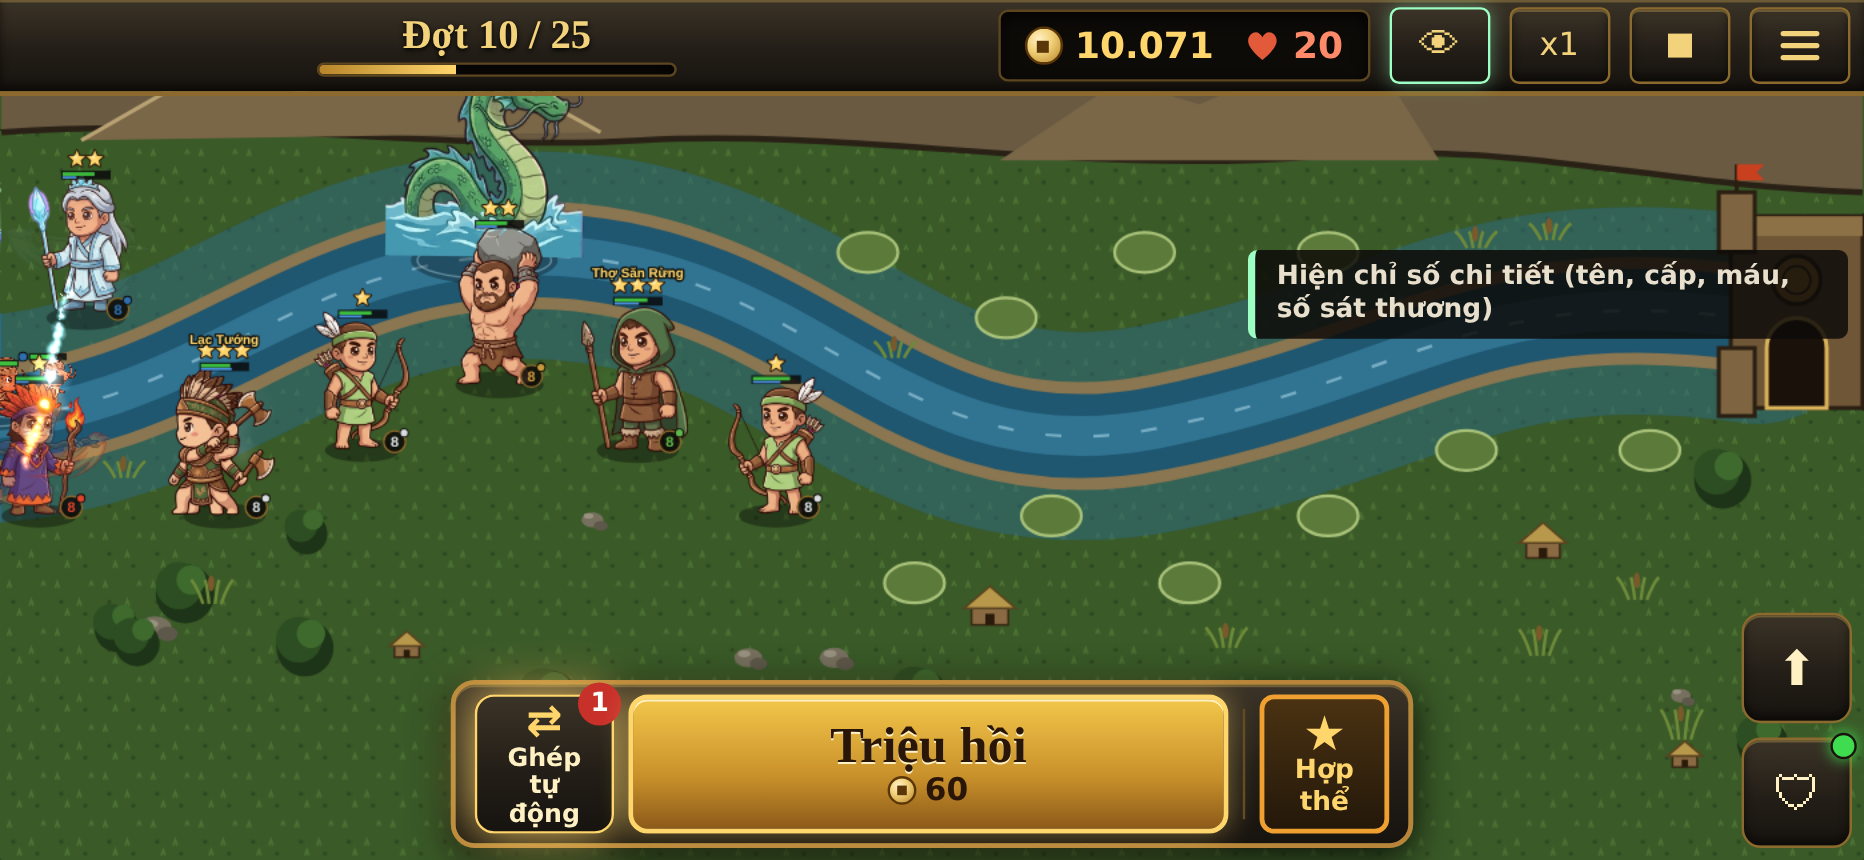
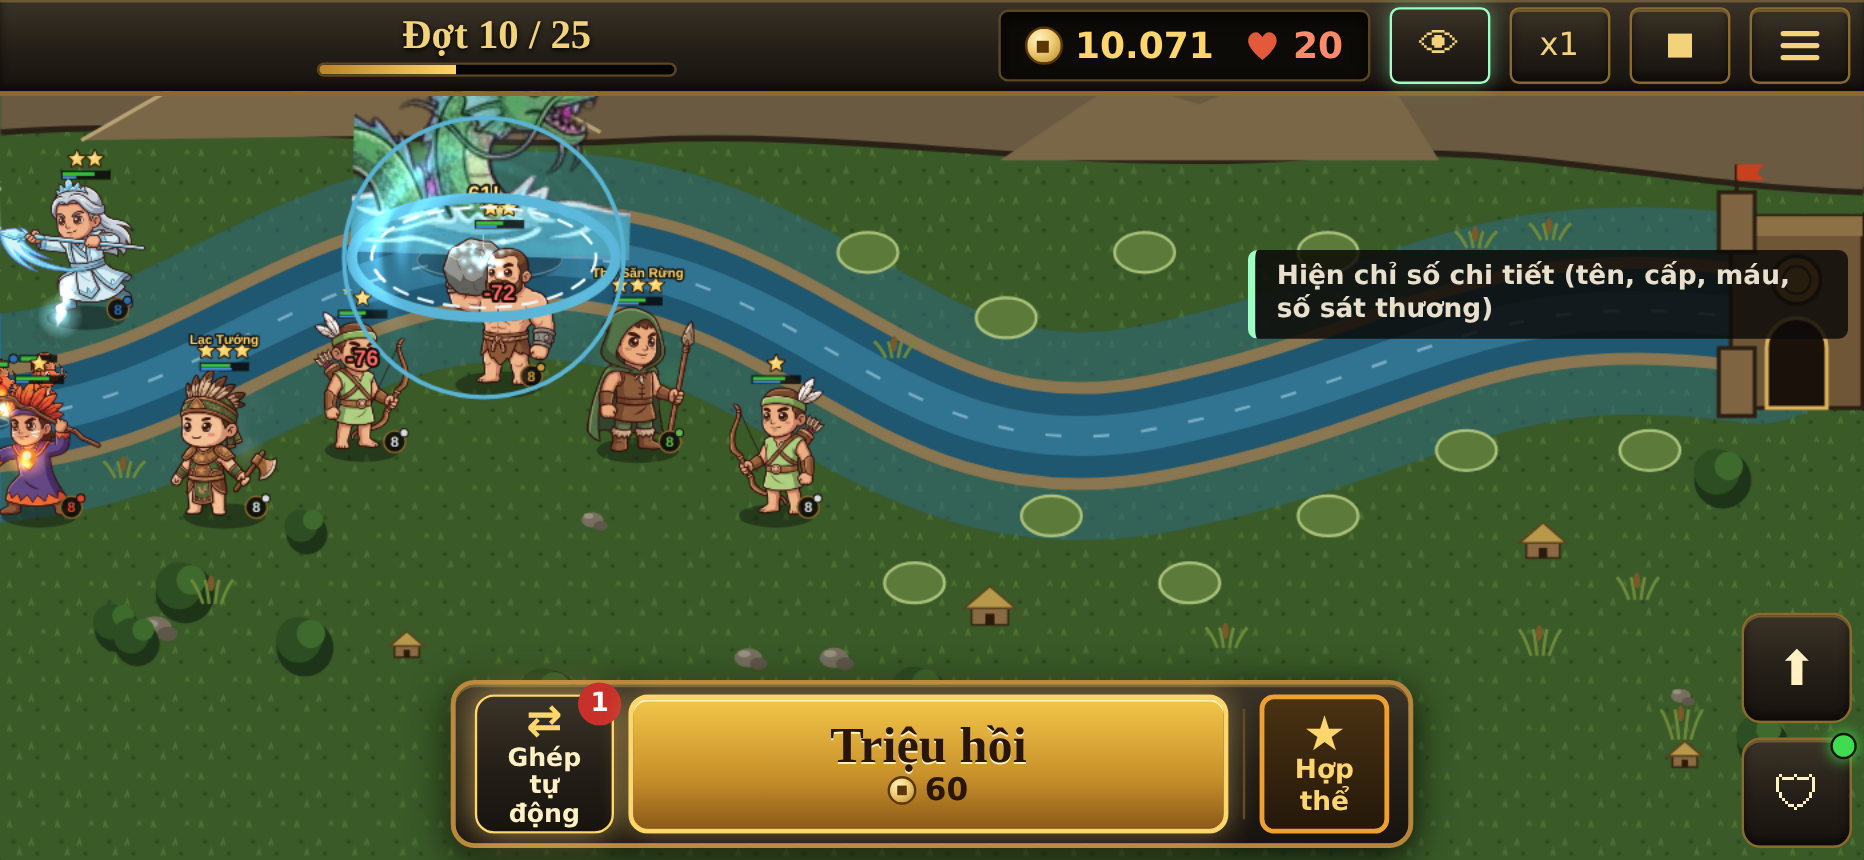
v113: Gemini art for Sọ Dừa (all 60 heroes now drawn)
Claude-Session: https://claude.ai/code/session_017MbeA6iwMaSCfNrZ9EBWDN

diff --git a/index.html b/index.html
@@ -13,7 +13,7 @@
   <title>Núi Cao Nước Dâng</title>
   <link rel="preconnect" href="https://fonts.googleapis.com">
   <link rel="stylesheet" href="https://fonts.googleapis.com/css2?family=Alegreya+SC:wght@700;800&family=Alegreya+Sans:wght@400;500;700;800&display=swap">
-  <link rel="stylesheet" href="css/style.css?v=112">
+  <link rel="stylesheet" href="css/style.css?v=113">
 </head>
 <body>
 <!--BODY-->
@@ -95,7 +95,7 @@
           <button id="btn-settings" class="mc-btn metal"><svg viewBox="0 0 20 20"><circle cx="10" cy="10" r="3" fill="none" stroke="currentColor" stroke-width="1.8"/><path d="M10 2v3M10 15v3M2 10h3M15 10h3M4.3 4.3l2.1 2.1M13.6 13.6l2.1 2.1M4.3 15.7l2.1-2.1M13.6 6.4l2.1-2.1" stroke="currentColor" stroke-width="1.8"/></svg>Cài Đặt</button>
           <div class="mc-subs"><button id="btn-menu-codex" class="mc-sub">📖 Bách khoa</button><button id="btn-ranks" class="mc-sub">🏆 Xếp hạng</button></div>
         </nav>
-        <div class="ver">Phiên bản 112</div>
+        <div class="ver">Phiên bản 113</div>
       </div>
 
       <div id="story" class="overlay" hidden></div>
@@ -131,19 +131,19 @@
       el.textContent = 'Lỗi: ' + (e.message || e.error) + (e.filename ? ' (' + e.filename.split('/').pop() + ':' + e.lineno + ')' : '');
     });
   </script>
-  <script src="js/art.js?v=112"></script>
-  <script src="js/data.js?v=112"></script>
-  <script src="js/enemies2.js?v=112"></script>
-  <script src="js/game.js?v=112"></script>
-  <script src="js/render.js?v=112"></script>
-  <script src="js/costume.js?v=112"></script>
-  <script src="js/maps.js?v=112"></script>
-  <script src="js/chapters.js?v=112"></script>
-  <script src="js/firebase-config.js?v=112"></script>
-  <script src="js/cloud.js?v=112"></script>
-  <script src="js/ui.js?v=112"></script>
-  <script src="js/vfx.js?v=112"></script>
+  <script src="js/art.js?v=113"></script>
+  <script src="js/data.js?v=113"></script>
+  <script src="js/enemies2.js?v=113"></script>
+  <script src="js/game.js?v=113"></script>
+  <script src="js/render.js?v=113"></script>
+  <script src="js/costume.js?v=113"></script>
+  <script src="js/maps.js?v=113"></script>
+  <script src="js/chapters.js?v=113"></script>
+  <script src="js/firebase-config.js?v=113"></script>
+  <script src="js/cloud.js?v=113"></script>
+  <script src="js/ui.js?v=113"></script>
+  <script src="js/vfx.js?v=113"></script>
   <script>if ('serviceWorker' in navigator && location.protocol === 'https:') navigator.serviceWorker.register('sw.js').catch(() => {});</script>
-  <script src="js/main.js?v=112"></script>
+  <script src="js/main.js?v=113"></script>
 </body>
 </html>

diff --git a/js/ui.js b/js/ui.js
@@ -747,7 +747,7 @@ class UI {
         ${this.cloudRow()}
         <div class="tg metal"><div><b>Xoá tiến trình</b><small>Xoá sao và các ải đã mở trên máy này</small></div>
           <button class="btn metal" style="margin-left:auto;color:#FFB08A;border-color:#C8401E" data-act="wipe">${this.wipeArmed ? 'Bấm lần nữa để xoá' : 'Xoá'}</button></div>
-        <div class="note" style="text-align:center">Núi Cao Nước Dâng · Phiên bản 112 · ${typeof CLOUD !== 'undefined' && CLOUD.enabled ? 'Tiến trình lưu trên máy và đám mây' : 'Tiến trình lưu trên trình duyệt của bạn'}</div>
+        <div class="note" style="text-align:center">Núi Cao Nước Dâng · Phiên bản 113 · ${typeof CLOUD !== 'undefined' && CLOUD.enabled ? 'Tiến trình lưu trên máy và đám mây' : 'Tiến trình lưu trên trình duyệt của bạn'}</div>
       </div></div>`;
   }
 

diff --git a/js/render.js b/js/render.js
@@ -339,7 +339,7 @@ const HERO_PACK = Object.fromEntries(['lactuong', 'lucsi', 'xathu', 'thosan', 't
   // v107: ảnh Gemini đợt 3 (tướng Vàng)
   'kinhduong', 'longnu', 'halong', 'maudia', 'tanvien', 'melua', 'matroi', 'thienloi', 'cuoi', 'ongho',
   // v109
-  'trutroi', 'mauthoai',
+  'trutroi', 'mauthoai', 'sodua',
 ].map((k) => [k, `packs/${k}/`]));
 const packImg = (type, name) => (HERO_PACK[type] ? asset(HERO_PACK[type] + name + '.png', true) : null);
 // v60: quái vẽ tay (assets/packs/<quái>/walk1 · walk2 · attack): bước đi luân phiên, ra đòn khi tấn công

diff --git a/sw.js b/sw.js
@@ -1,6 +1,6 @@
 // Service worker: lưu sẵn game để mở lại không cần mạng (trừ lưu đám mây).
 // Đổi VERSION mỗi khi phát hành để máy người chơi tải bản mới.
-const VERSION = 'v112';
+const VERSION = 'v113';
 const CORE = ['./', './index.html', './manifest.webmanifest', './css/style.css', './icons/icon-192.png'];
 self.addEventListener('install', (e) => { e.waitUntil(caches.open(VERSION).then((c) => c.addAll(CORE))); self.skipWaiting(); });
 self.addEventListener('activate', (e) => {

diff --git a/GAMEPLAY.md b/GAMEPLAY.md
@@ -1222,3 +1222,6 @@ Mỗi đòn đánh thường của tướng mang hiệu ứng của hành mình:
 ## Phiên bản 112 — Icon kỹ năng + Thần Khí vẽ tay
 - Icon kỹ năng vẽ tay cho 34 tướng (cắt lại cả 6 bộ Thường đầu tiên theo đúng prompt).
 - Thần Khí vẽ tay cho 12 tướng Vàng (Thánh Gióng, Lạc Long Quân, Âu Cơ, Mẫu Thượng Ngàn, Kinh Dương Vương, Sơn Tinh, Long Nữ, Hạ Long, Viêm Đế, Chúa Sơn Lâm, Trụ Trời, Mẫu Thoải): `assets/packs/<tướng>/tk-1…3.png`, hiện trong bảng Thần Khí.
+
+## Phiên bản 113 — Sọ Dừa
+- Nạp ảnh vẽ tay cho Sọ Dừa: đủ 60/60 tướng có ảnh.
